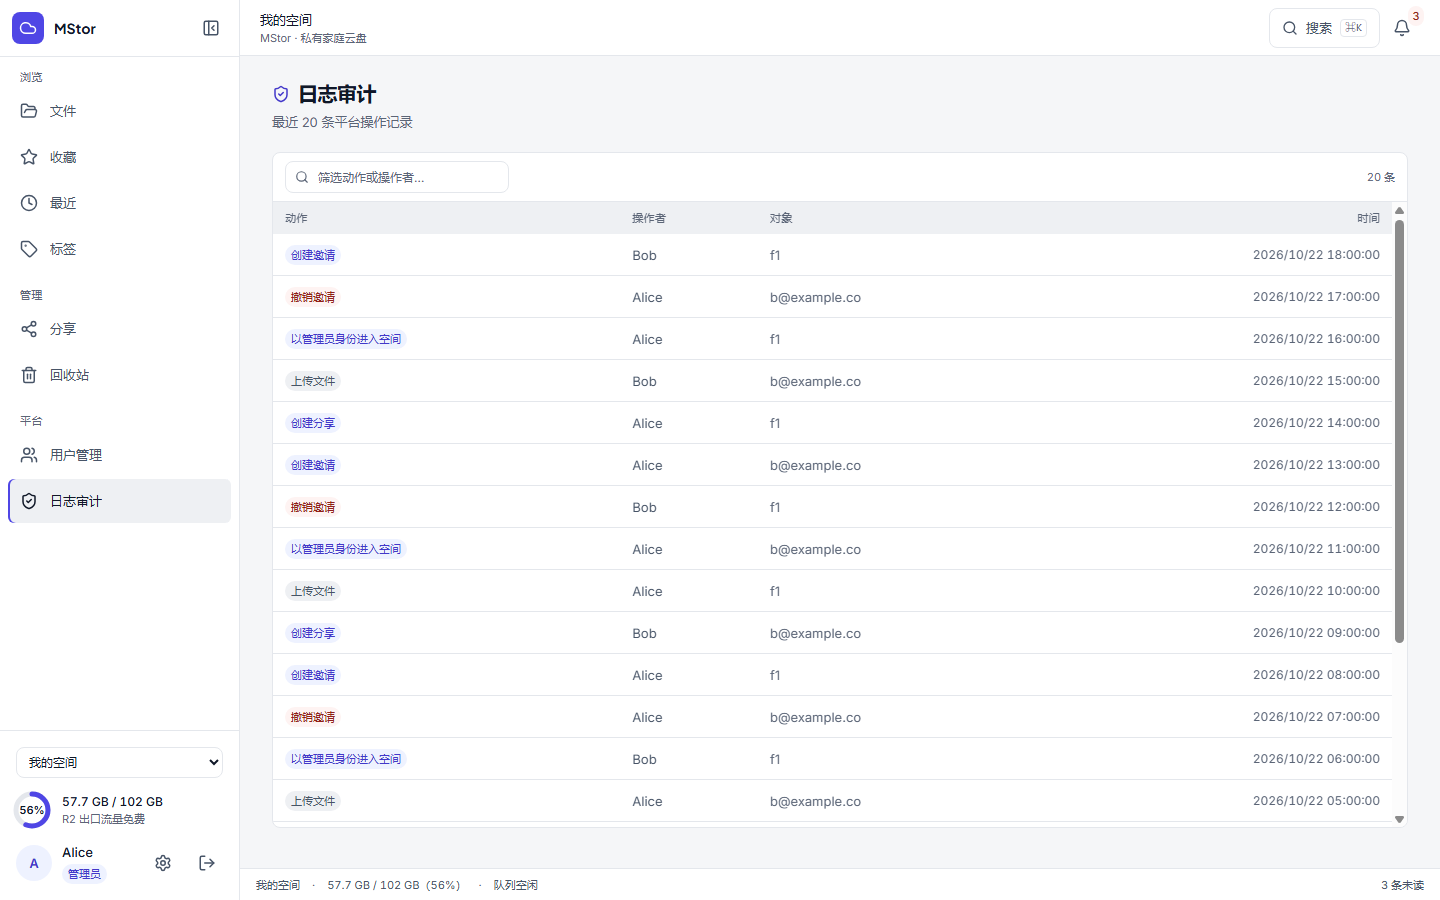
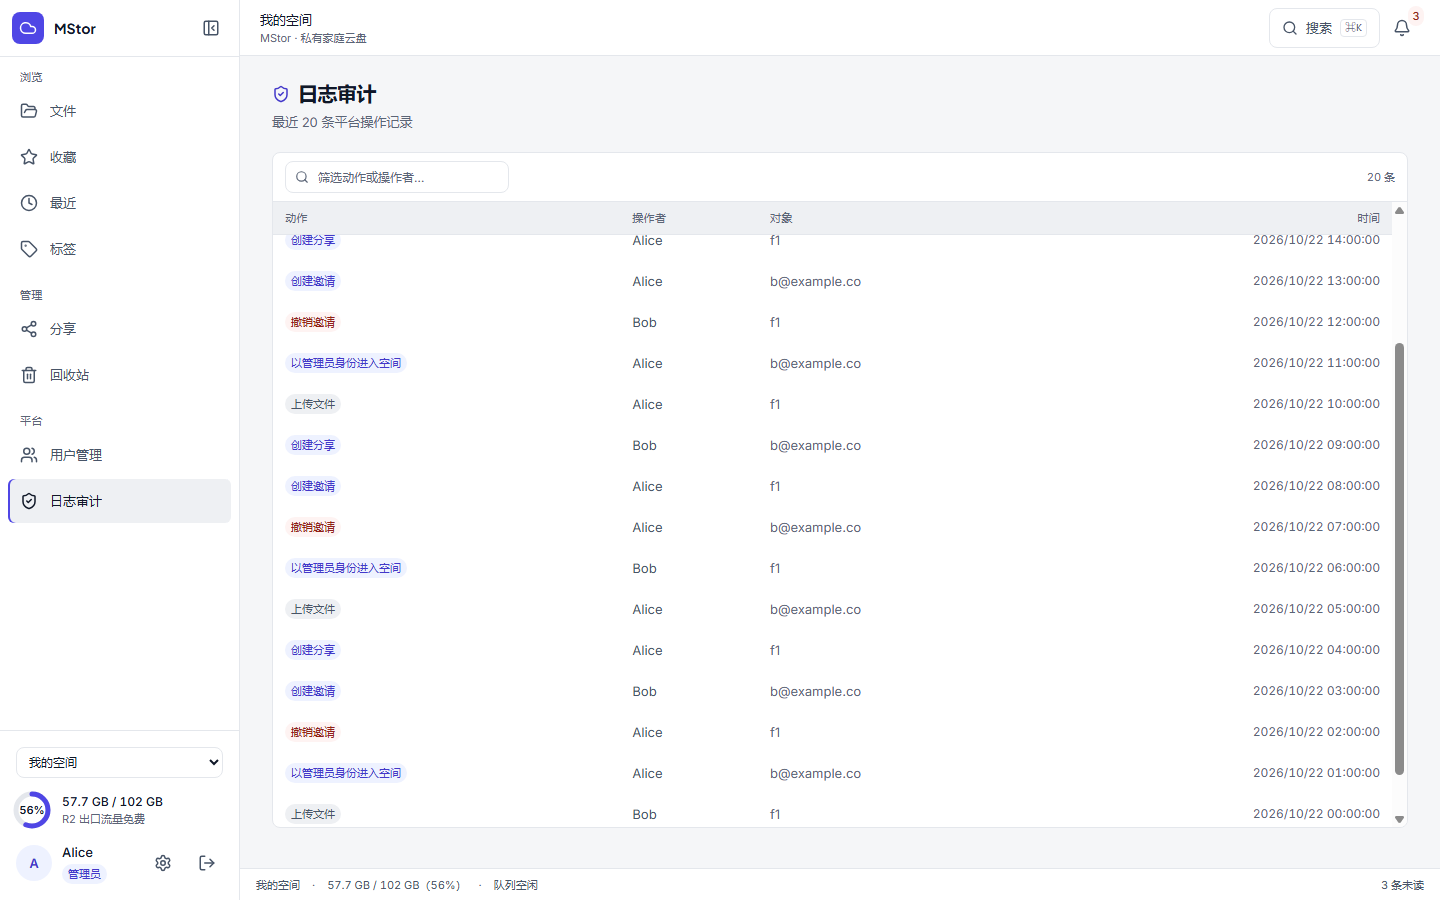
fix(ui): 修复审计表 sticky 表头与数据行叠字
- sticky/背景/z 从 thead 移到每个 th，表格改 border-separate，滚动时表头不透出数据行
- 用户管理表同步；审计视觉 fixture 滚到中段，覆盖此前未测的滚动状态
- 新增 sticky th 断言；客户端 269 例、server 30、visual 22/22 全绿

diff --git a/client/src/components/AuditTable.tsx b/client/src/components/AuditTable.tsx
@@ -59,14 +59,14 @@ export function AuditTable({ events }: { events: AuditEvent[] }) {
       {rows.length === 0 ? (
         <p className="px-3 py-8 text-center text-sm text-ink-3">{events.length === 0 ? "暂无审计事件" : "没有匹配的事件"}</p>
       ) : (
-        <div className="md:min-h-0 md:flex-1 md:overflow-auto">
-        <table className="w-full border-collapse text-sm">
-          <thead className="sticky top-0 bg-bg-sub">
+        <div data-testid="audit-scroll" className="md:min-h-0 md:flex-1 md:overflow-auto">
+        <table className="w-full border-separate border-spacing-0 text-sm">
+          <thead>
             <tr className="text-left text-2xs tracking-wide text-ink-3 uppercase">
-              <th scope="col" className="px-3 py-2 font-medium">动作</th>
-              <th scope="col" className="hidden px-3 py-2 font-medium sm:table-cell">操作者</th>
-              <th scope="col" className="hidden px-3 py-2 font-medium md:table-cell">对象</th>
-              <th scope="col" className="px-3 py-2 text-right font-medium">时间</th>
+              <th scope="col" className="sticky top-0 z-sticky border-b border-line bg-bg-sub px-3 py-2 font-medium">动作</th>
+              <th scope="col" className="sticky top-0 z-sticky hidden border-b border-line bg-bg-sub px-3 py-2 font-medium sm:table-cell">操作者</th>
+              <th scope="col" className="sticky top-0 z-sticky hidden border-b border-line bg-bg-sub px-3 py-2 font-medium md:table-cell">对象</th>
+              <th scope="col" className="sticky top-0 z-sticky border-b border-line bg-bg-sub px-3 py-2 text-right font-medium">时间</th>
             </tr>
           </thead>
           <tbody className="divide-y divide-line">

diff --git a/client/src/components/AdminUsersSection.tsx b/client/src/components/AdminUsersSection.tsx
@@ -85,14 +85,14 @@ export function AdminUsersSection({ selfId }: { selfId: string }) {
           />
         ) : (
           <div className="overflow-x-auto">
-            <table className="w-full min-w-[36rem] border-collapse text-sm">
-              <thead className="sticky top-0 bg-bg-sub">
+            <table className="w-full min-w-[36rem] border-separate border-spacing-0 text-sm">
+              <thead>
                 <tr className="text-left text-2xs tracking-wide text-ink-3 uppercase">
-                  <th scope="col" className="px-3 py-2 font-medium">用户</th>
-                  <th scope="col" className="px-3 py-2 font-medium">角色</th>
-                  <th scope="col" className="px-3 py-2 font-medium">配额</th>
-                  <th scope="col" className="px-3 py-2 font-medium">状态</th>
-                  <th scope="col" className="px-3 py-2 text-right font-medium">操作</th>
+                  <th scope="col" className="sticky top-0 z-sticky border-b border-line bg-bg-sub px-3 py-2 font-medium">用户</th>
+                  <th scope="col" className="sticky top-0 z-sticky border-b border-line bg-bg-sub px-3 py-2 font-medium">角色</th>
+                  <th scope="col" className="sticky top-0 z-sticky border-b border-line bg-bg-sub px-3 py-2 font-medium">配额</th>
+                  <th scope="col" className="sticky top-0 z-sticky border-b border-line bg-bg-sub px-3 py-2 font-medium">状态</th>
+                  <th scope="col" className="sticky top-0 z-sticky border-b border-line bg-bg-sub px-3 py-2 text-right font-medium">操作</th>
                 </tr>
               </thead>
               <tbody>

diff --git a/client/src/components/AuditTable.test.tsx b/client/src/components/AuditTable.test.tsx
@@ -14,4 +14,8 @@ test("audit table localizes invitation actions and owns vertical scroll on deskt
   expect(screen.getAllByText("撤销邀请").length).toBeGreaterThan(0);
   const table = container.querySelector("table");
   expect(table?.parentElement?.className).toContain("md:overflow-auto");
+  // sticky 必须落在 th 上（border-collapse 下只给 thead 背景会透出数据行）
+  const th = table?.querySelector("th");
+  expect(th?.className).toContain("sticky");
+  expect(th?.className).toContain("bg-bg-sub");
 });

diff --git a/docs/functional-audit.md b/docs/functional-audit.md
@@ -1,7 +1,7 @@
 # MStor 功能与操作体验验证（2026-10-22）
 
 > 范围：客户端主要页面 + 服务端关键接口。方法：既有自动化用例、服务端本地 shim、headless Chrome 视觉/交互检查、代码走查；对发现的缺陷补回归用例。
-> 结论：本轮定位并修复 24 个真实问题；核心页面在 1440/390 视口无横向溢出，自动化闸门全绿。真实 R2 上传、Cloudflare Access 登录、PWA 离线与跨浏览器下载仍需真机回归（见 §5）。
+> 结论：本轮定位并修复 25 个真实问题；核心页面在 1440/390 视口无横向溢出，自动化闸门全绿。真实 R2 上传、Cloudflare Access 登录、PWA 离线与跨浏览器下载仍需真机回归（见 §5）。
 
 ## 1. 验证结果
 
@@ -68,6 +68,7 @@
 | 22 | P1 | 视频没有缩略图；大文件/秒传上传不生成缩略图；视频预览无 poster/错误提示/playsInline | makeThumbnail 增加视频抽帧（中间帧、300MB/8s 上限）；缩略图统一在队列侧覆盖秒传/分片/小文件；网格用视频首帧+播放角标；预览补 poster/preload/playsInline/加载与不支持编码提示 |
 | 23 | P1 | 审计页 20 行时主内容溢出到 StatusBar 下方；长表格无内部滚动 | main 统一 overflow-y-auto；审计页 flex + 表格区 overflow-auto；20 行视觉 fixture；补邀请动作中文标签 |
 | 24 | P1 | admin.act_as 在 x-act-as 中间件按请求写审计，一次进入产生多条重复日志（且允许 self） | 新增显式 POST /admin/act-as 记录一次；中间件只解析上下文；self 禁止；补 admin user/settings 审计 |
+| 25 | P1 | 审计表滚动后数据行透出 sticky 表头（border-collapse + thead 背景不遮行） | sticky/背景/z 移到 th，表格改 border-separate；用户管理表同步；审计视觉 fixture 滚到中段 |
 
 ## 4. 操作体验复核
 

diff --git a/docs/audit-system-analysis.md b/docs/audit-system-analysis.md
@@ -3,6 +3,34 @@
 > 范围：审计事件模型、写入边界、覆盖范围、查询/展示、保留与完整性。
 > 生产样本：24 条审计记录，其中 14 条 admin.act_as、10 条 invitation.*（2026-10-23）。
 
+## 0. MStor 是否需要审计体系？
+
+需要，但应是**分层的最小审计**，不是把每次文件读取都写一遍。
+
+MStor 已经具备审计的必要条件：
+
+- 多租户 workspace 与跨空间管理员；
+- admin 可以 act-as 进入他人空间；
+- 邀请/撤销、分享链接、批量删除/彻底删除；
+- 配额与成员权限变更；
+- 这些操作一旦出问题，需要回答「谁、何时、对什么、结果如何」。
+
+不建议无差别记录：
+
+- 普通文件列表/预览/搜索属于数据面，量大、隐私敏感、排障价值低；
+- 记录它们会显著增加 D1 写入与保留成本，也会扩大泄露面；
+- 行业做法（CloudTrail Data events / GCP Data Access）也是显式开启、单独保留、按需采样。
+
+建议分层：
+
+| 层级 | 事件 | 策略 |
+|---|---|---|
+| A 控制面/安全 | 登录、act-as、权限/成员、管理员设置、邀请 | 必记，365 天 |
+| B 破坏性/外链 | 删除/彻底删除/还原、分享创建/撤销、下载（可采样） | 必记或采样，90-180 天 |
+| C 数据面 | 列表、预览、搜索、普通读取 | 默认不记；合规需要时单独开启 |
+
+所以 MStor **需要审计体系**，但当前应优先补齐 A/B 两层的**动作级**事件、可查询与可保留，而不是做全量访问日志。
+
 ## 1. 为什么「以管理员身份进入空间」会有十几条日志
 
 根因是**审计记录写在请求中间件里，而不是动作入口**：

diff --git a/DESIGN.md b/DESIGN.md
@@ -68,7 +68,7 @@ Card：1px 发丝边 + 圆角 8；内容卡片无投影；只有浮层使用 lif
 Input：高度 36，1px 边，焦点时 border 变 accent，不加外发光。
 Selection：黑白高对比，不使用 accent tint。列表选中行 ink 5% tint + 3px ink rail；网格选中卡 ink 边框 + ring；checkbox 使用 accent-ink；表头部分选中显示 indeterminate；Esc 清空选择，不依赖焦点在行上。空白区域可拖拽框选（Shift/Ctrl 追加，鼠标专属）。
 Actions：关键动作直接展示——文件「下载 + 分享」、文件夹「分享」；次要动作折叠进「更多」。列表/网格、桌面/移动一致；禁止把核心动作只藏在 hover 里。
-Table：表头 11px 大写弱化色；行高 44；行 hover 只改背景。
+Table：表头 11px 大写弱化色；行高 44；行 hover 只改背景。sticky 表头必须把 sticky/背景/z 写在 th 上并使用 border-separate；禁止只给 thead 加背景。
 Dialog：桌面居中圆角 12，移动端底部抽屉；遮罩不使用重模糊。
 Command palette：单纵向面板；输入 → 分段筛选 → 结果滚动 → 键盘提示；禁止输入框下再套绝对定位下拉。
 Photo thumbnail：4:3；文件类型角标固定左下；加载失败回退类型图标。视频也用抽帧缩略图；无缩略图时用 muted/metadata 首帧 + 播放角标，预览必须 poster + playsInline + 错误回退。

diff --git a/docs/component-ux-audit.md b/docs/component-ux-audit.md
@@ -99,8 +99,9 @@ Trade-off：桌面端分享多一个图标；重命名/移动多一次点击。
 修复：
 
 - main 统一改为 overflow-y-auto + overscroll-contain：所有长页面（设置、成员、分享、用户管理、审计…）都在主内容区内滚动；
-- 审计页改为 md:flex md:min-h-0 md:flex-1 md:flex-col，AuditTable 的表格区 md:min-h-0 md:flex-1 md:overflow-auto，表头 sticky 真正生效；
-- 视觉 mock 的审计数据从 3 条增加到 20 条，基线可捕获此类“数据变多才出现”的问题；
+- 审计页改为 md:flex md:min-h-0 md:flex-1 md:flex-col，AuditTable 的表格区 md:min-h-0 md:flex-1 md:overflow-auto；
+- sticky 表头改为 **th 自身 sticky + bg-bg-sub + z-sticky + border-separate**；只给 thead 加背景在 border-collapse 下会透出数据行，导致“表头与数据行重叠”；用户管理表同步修复；
+- 视觉 mock 的审计数据从 3 条增加到 20 条，并把审计基线滚到中段，覆盖 sticky 表头与数据行叠字；
 - 顺带补齐 invitation.create / invitation.revoke / invitation.accept 的中文动作标签。
 
 ## 7. 验证

diff --git a/docs/ux-refactor-report.md b/docs/ux-refactor-report.md
@@ -571,7 +571,7 @@
 
 - 现象：20 条审计记录时表格最后几行被 StatusBar 遮住，表头在滚动时不可用。
 - 根因：AppShell main 只有 min-h-0 没有 overflow；AuditTable 没有自己的滚动区；视觉 mock 只有 3 行，基线没有暴露。
-- 修复：main 统一 overflow-y-auto + overscroll-contain；审计页 flex 填满、表格区 md:overflow-auto；20 行 fixture 入视觉基线；补邀请动作标签。
+- 修复：main 统一 overflow-y-auto + overscroll-contain；审计页 flex 填满、表格区 md:overflow-auto；sticky 改用 th + bg + z + border-separate（修复滚动时数据行透出表头）；20 行且滚到中段的 fixture 入视觉基线；补邀请动作标签。
 - 客户端 269 例、server 30、visual 22/22。
 
 ### 19.21 视频缩略图与预览

diff --git a/docs/design-system.md b/docs/design-system.md
@@ -30,7 +30,8 @@ v8 借鉴并落地：
 ### v8.6 长页面滚动与审计表
 
 - AppShell 主内容区统一 overflow-y-auto + overscroll-contain，StatusBar 始终是 flex 兄弟，不覆盖内容。
-- 审计页/审计表使用 md:flex + min-h-0 + flex-1 + overflow-auto；20 行时表格内部滚动，sticky 表头生效。
+- 审计页/审计表使用 md:flex + min-h-0 + flex-1 + overflow-auto；20 行时表格内部滚动。
+- sticky 表头必须写在 th 上（sticky + bg-bg-sub + z-sticky），表格用 border-separate；只在 thead 上放背景会在 border-collapse 下透出数据行。
 - 视觉 mock 审计数据从 3 行增至 20 行，覆盖“数据变多才溢出”的回归。
 - 补 invitation.create / revoke / accept 中文动作标签。
 
